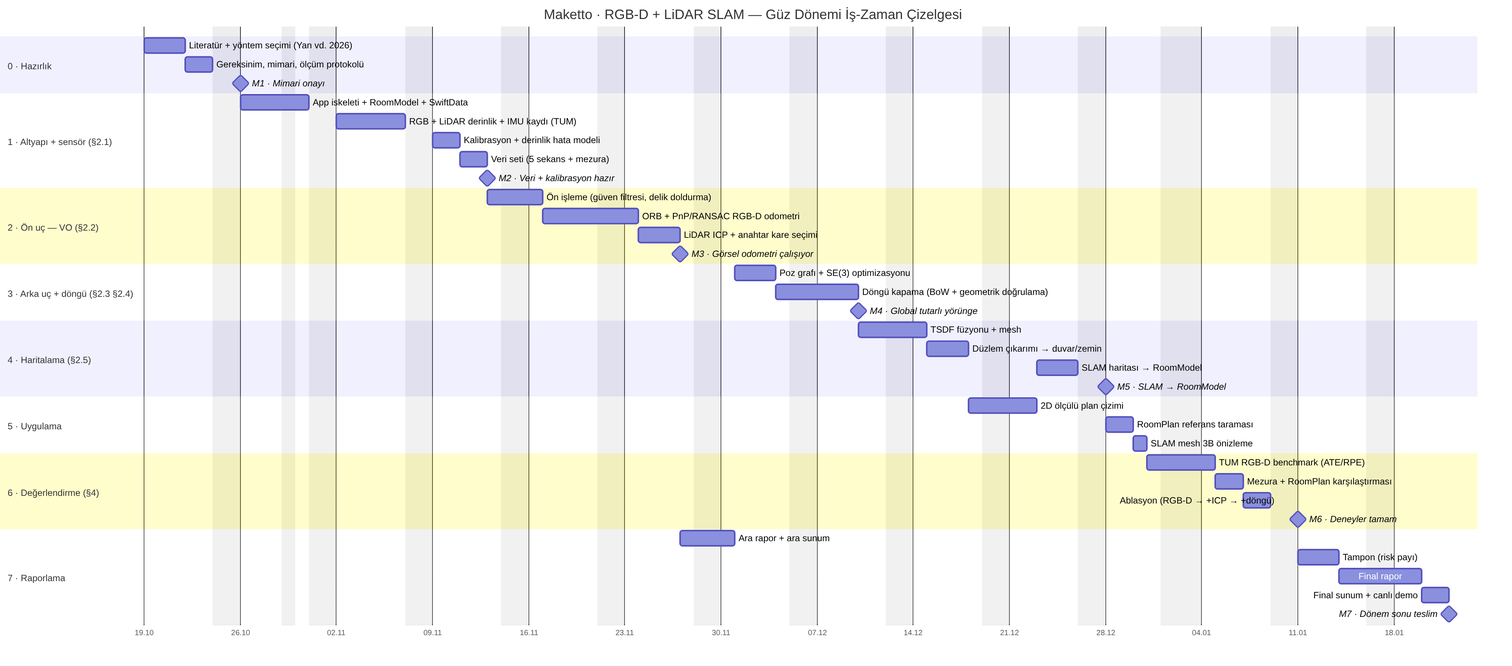
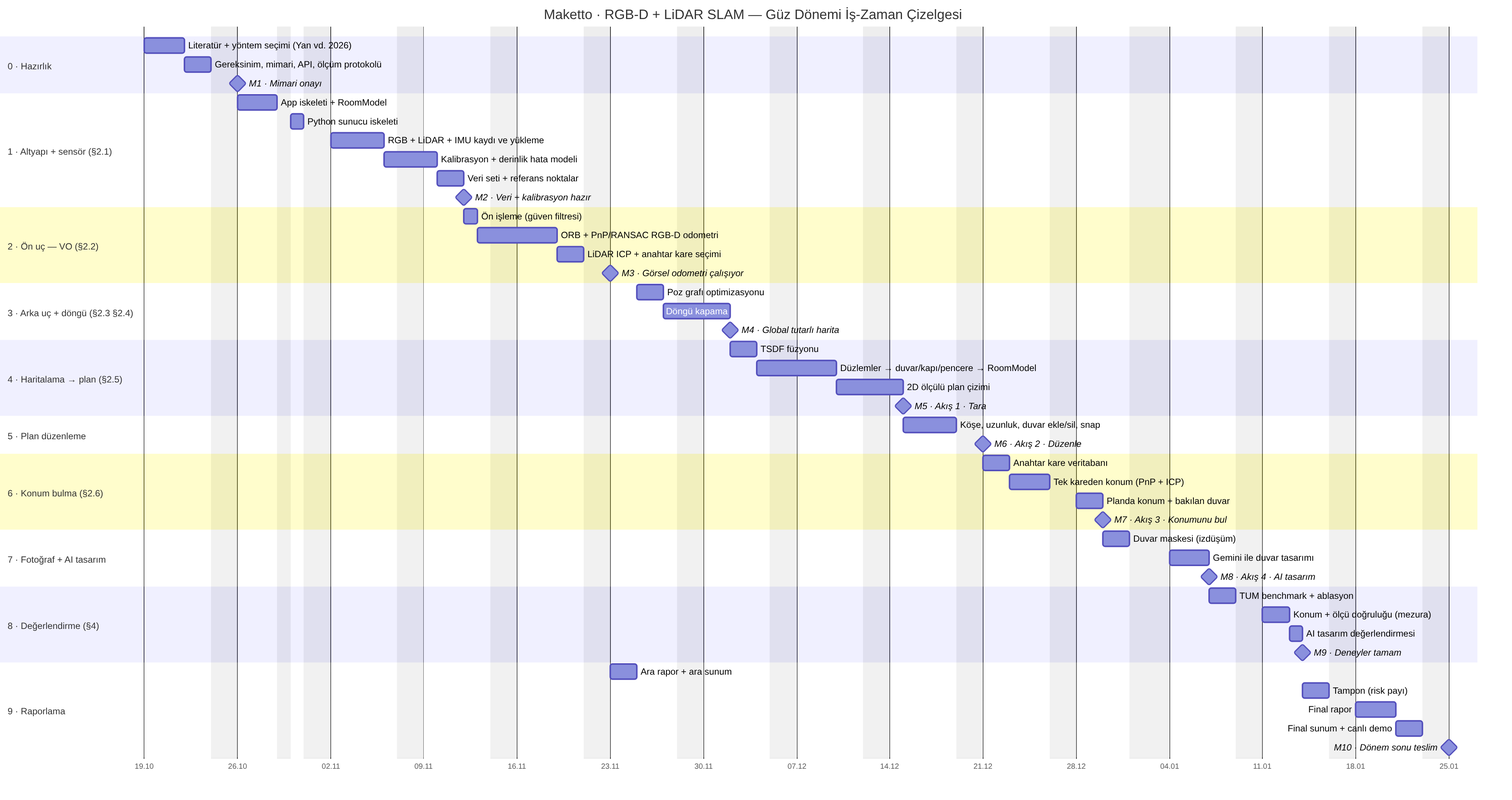
Re-plan the semester Gantt around the scan-to-AI-design flow
The target flow is now: scan the home, edit the plan, find your own
position in the map, photograph a wall, get an AI design for that
wall. GANTT.md adds a flow/architecture diagram (iPhone client +
Python server) and brings relocalization (Yan et al. 2026, sec. 2.6),
plan editing and a wall-masked Gemini design step into the 14-week
plan, with milestones per flow step. Still one person, 68/68 working
days with a 2-day buffer; docs/gantt.png is re-rendered.

Claude-Session: https://claude.ai/code/session_01Liqkw9b7w5xb7hxMGQjJBP

diff --git a/GANTT.md b/GANTT.md
@@ -2,28 +2,49 @@
 
 - **Proje isteri:** RGB-D ve LiDAR ile SLAM
 - **Referans makale:** Yan, Y.; Li, J.; Liu, Q.; Lv, S.; Wu, Q. *RGB-D SLAM: A Review of Methods and Performance Trade-Offs for Different Requirements.* Sensors 2026, 26(11), 3513. [doi:10.3390/s26113513](https://doi.org/10.3390/s26113513)
-- **Proje:** Maketto — LiDAR'lı iPhone ile evi tarayıp ölçülü 2D plan ve 3B model çıkaran ev tasarım uygulaması (bkz. `PLAN.md`).
+- **Proje:** Maketto — telefonla evi tara, planı düzenle, evin içinde konumunu haritada bul, bir duvarın fotoğrafını çek ve o duvar için AI tasarım al.
 
-Plan, projeye sıfırdan başlanıyormuş gibi ve **tek bir üniversite dönemine (14 hafta)** sığacak şekilde kuruldu. Uygulama iskeleti dahil her iş planlandı. SLAM, makaledeki RGB-D SLAM çerçevesinin modüllerine (§2.1–§2.5) bölündü. Her modül bir öncekinin çıktısını kullandığı için iş sırası da bu çerçeveyi izliyor.
+Plan, projeye sıfırdan başlanıyormuş gibi ve **tek bir üniversite dönemine (14 hafta)** sığacak şekilde kuruldu. SLAM, makaledeki RGB-D SLAM çerçevesinin modüllerine (§2.1–§2.6) bölündü. Her modül bir sonraki akış adımını mümkün kılıyor: harita **tara** adımını, relokalizasyon **konumunu bul** adımını, konum da AI tasarımın hangi duvara uygulanacağını belirliyor.
+
+## Hedef akış
+
+```mermaid
+flowchart LR
+    subgraph P[iPhone]
+        A["1 · Tara<br/>RGB + LiDAR + IMU"]
+        C["2 · Düzenle<br/>2D plan editörü"]
+        D["3 · Konumunu bul<br/>tek RGB-D kare"]
+        F["4 · Duvarın fotoğrafı<br/>→ AI tasarım"]
+    end
+    subgraph S[Bilgisayar · Python sunucu]
+        B["SLAM<br/>VO + poz grafı + döngü<br/>TSDF → duvarlar → RoomModel"]
+        E["Relokalizasyon<br/>anahtar kare DB + PnP + ICP<br/>→ poz + bakılan duvar"]
+        G["Duvar maskesi<br/>+ Gemini"]
+    end
+    A --> B --> C --> D --> E --> F --> G
+```
+
+Fotoğraf çekildiğinde sunucu önce o karenin konumunu haritada bulur, sonra bakılan duvarı fotoğrafa izdüşürüp bir maske çıkarır. AI yalnızca o duvarı, gerçek ölçüleriyle yeniden tasarlar.
 
 ## Varsayımlar
 - **Dönem:** 2026–27 güz dönemi, 19 Ekim 2026 (Pzt) → 22 Ocak 2027 (Cum), 14 hafta (H1–H14). Final sınav haftaları bu sürenin dışında.
-- **Kapasite:** 68 iş günü (hafta sonları, 29 Ekim ve 1 Ocak hariç). Plan 67 iş günü tutuyor, 3 günlük tampon dahil.
-- **Ekip:** Tek kişi, işler sırayla yapılıyor. Bir iş gecikirse teslim de kayar; bunu tampon karşılıyor.
-- **Donanım ve yazılım:** iPhone 14 Pro Max (RGB kamera + LiDAR dToF derinliği + IMU) veriyi toplar ve sonucu gösterir. SLAM hattı bilgisayarda Python + OpenCV + Open3D ile çevrimdışı çalışır.
+- **Kapasite:** 68 iş günü (hafta sonları, 29 Ekim ve 1 Ocak hariç). Plan 68 iş gününün tamamını kullanıyor, 2 günlük tampon dahil. Sıkı bir plan.
+- **Ekip:** Tek kişi, işler sırayla yapılıyor. Bir iş gecikirse teslim de kayar.
+- **Mimari:** iPhone 14 Pro Max (RGB kamera + LiDAR dToF derinliği + IMU) veriyi toplar, planı düzenletir ve sonucu gösterir. SLAM, relokalizasyon ve AI çağrısı aynı ağdaki bir bilgisayarda Python sunucuda (FastAPI + OpenCV + Open3D) çalışır. AI tasarım için `PLAN.md`'deki Gemini görsel düzenleme API'si kullanılır.
 - **Tarih kaydırma:** Yalnızca `lit` satırındaki başlangıç tarihini değiştirmek yeter, diğer her şey `after` bağımlılıklarıyla kayar. Bahar dönemine taşınırsa `excludes` satırına o dönemin tatilleri (Ramazan Bayramı 9–11 Mart, 23 Nisan, Kurban Bayramı 17–19 Mayıs) eklenmeli.
 
 ## Kapsam kararları
-Makale (§5), zor koşullarda RGB-D SLAM'in gerçek zamandan çok doğruluk ve sağlamlığı öne aldığını söylüyor. Bir dönemde hem SLAM hattını hem mobil gerçek zaman optimizasyonunu yetiştirmek gerçekçi olmadığı için hat önce bilgisayarda çevrimdışı doğrulanıyor.
+Makale (§5), zor koşullarda RGB-D SLAM'in gerçek zamandan çok doğruluk ve sağlamlığı öne aldığını söylüyor. Akıştaki hiçbir adım sürekli gerçek zaman gerektirmiyor: tarama bir kez işleniyor, konum her fotoğrafta tek kareden bulunuyor. Bu yüzden ağır hesap sunucuya alındı.
 
 | Kapsam dışı | Neden |
 |---|---|
-| Cihazda gerçek zamanlı SLAM (Metal) | Bir döneme sığmıyor; hat önce çevrimdışı doğrulanıyor |
+| Cihazda gerçek zamanlı SLAM (Metal) | Bir döneme sığmıyor; akış için gerekmiyor |
+| Sürekli canlı konum takibi | Konum, her sorguda (buton ya da fotoğraf) tek kareden bulunuyor |
 | IMU füzyonu (§3.4) | İster RGB-D + LiDAR; IMU ek sensör. Veri zaten kaydediliyor (`cap`), sonra eklenebilir |
-| Relokalizasyon (§2.6) | Çevrimdışı işlemede kritik değil; takibi kopan sekans yeniden çekilir |
-| Dinamik nesne filtreleme | Sekanslar boş odada çekilecek |
+| Dinamik nesne filtreleme | Tarama boş odada yapılacak |
 | Nöral örtük haritalama (NeRF, 3DGS) | Makale (§4) kısıtlı platformlarda önermiyor |
-| Plan düzeltme, eşya yerleştirme, katalog, versiyonlama, Gemini render, çok odalı tarama (`PLAN.md` F3–F8) | SLAM isteriyle ilgili değil; sonraki dönem |
+| Eşya yerleştirme, katalog, native 3B, çok odalı tarama (`PLAN.md` F4–F6) | Akışın parçası değil; sonraki dönem |
+| RoomPlan ile karşılaştırma | Referans ölçüm mezurayla yapılıyor; zaman kalırsa eklenir |
 
 ## Gantt şeması
 GitHub bu bloğu doğrudan çizer (dikey kırmızı çizgi bugünü gösterir). Rapor ve sunum için hazır görsel: [`docs/gantt.png`](docs/gantt.png).
@@ -40,50 +61,61 @@ gantt
 
     section 0 · Hazırlık
     Literatür + yöntem seçimi (Yan vd. 2026)   :lit, 2026-10-19, 3d
-    Gereksinim, mimari, ölçüm protokolü        :req, after lit, 2d
+    Gereksinim, mimari, API, ölçüm protokolü   :req, after lit, 2d
     M1 · Mimari onayı                          :milestone, m1, after req, 0d
 
     section 1 · Altyapı + sensör (§2.1)
-    App iskeleti + RoomModel + SwiftData       :f0, after m1, 4d
-    RGB + LiDAR derinlik + IMU kaydı (TUM)     :cap, after f0, 5d
+    App iskeleti + RoomModel                   :f0, after m1, 3d
+    Python sunucu iskeleti                     :srv, after f0, 1d
+    RGB + LiDAR + IMU kaydı ve yükleme         :cap, after srv, 4d
     Kalibrasyon + derinlik hata modeli         :calib, after cap, 2d
-    Veri seti (5 sekans + mezura)              :data, after calib, 2d
+    Veri seti + referans noktalar              :data, after calib, 2d
     M2 · Veri + kalibrasyon hazır              :milestone, m2, after data, 0d
 
     section 2 · Ön uç — VO (§2.2)
-    Ön işleme (güven filtresi, delik doldurma) :pre, after m2, 2d
-    ORB + PnP/RANSAC RGB-D odometri            :vo, after pre, 5d
-    LiDAR ICP + anahtar kare seçimi            :icp, after vo, 3d
+    Ön işleme (güven filtresi)                 :pre, after m2, 1d
+    ORB + PnP/RANSAC RGB-D odometri            :vo, after pre, 4d
+    LiDAR ICP + anahtar kare seçimi            :icp, after vo, 2d
     M3 · Görsel odometri çalışıyor             :milestone, m3, after icp, 0d
 
     section 3 · Arka uç + döngü (§2.3 §2.4)
-    Poz grafı + SE(3) optimizasyonu            :pg, after int, 3d
-    Döngü kapama (BoW + geometrik doğrulama)   :lc, after pg, 4d
-    M4 · Global tutarlı yörünge                :milestone, m4, after lc, 0d
+    Poz grafı optimizasyonu                    :pg, after int, 2d
+    Döngü kapama                               :lc, after pg, 3d
+    M4 · Global tutarlı harita                 :milestone, m4, after lc, 0d
 
-    section 4 · Haritalama (§2.5)
-    TSDF füzyonu + mesh                        :tsdf, after m4, 3d
-    Düzlem çıkarımı → duvar/zemin              :plane, after tsdf, 3d
-    SLAM haritası → RoomModel                  :rm, after f2, 3d
-    M5 · SLAM → RoomModel                      :milestone, m5, after rm, 0d
+    section 4 · Haritalama → plan (§2.5)
+    TSDF füzyonu                               :tsdf, after m4, 2d
+    Düzlemler → duvar/kapı/pencere → RoomModel :walls, after tsdf, 4d
+    2D ölçülü plan çizimi                      :f2, after walls, 3d
+    M5 · Akış 1 · Tara                         :milestone, m5, after f2, 0d
 
-    section 5 · Uygulama
-    2D ölçülü plan çizimi                      :f2, after plane, 3d
-    RoomPlan referans taraması                 :f1, after m5, 2d
-    SLAM mesh 3B önizleme                      :view, after f1, 1d
+    section 5 · Plan düzenleme
+    Köşe, uzunluk, duvar ekle/sil, snap        :f3, after m5, 4d
+    M6 · Akış 2 · Düzenle                      :milestone, m6, after f3, 0d
 
-    section 6 · Değerlendirme (§4)
-    TUM RGB-D benchmark (ATE/RPE)              :bench, after view, 2d
-    Mezura + RoomPlan karşılaştırması          :own, after bench, 2d
-    Ablasyon (RGB-D → +ICP → +döngü)           :abl, after own, 2d
-    M6 · Deneyler tamam                        :milestone, m6, after abl, 0d
+    section 6 · Konum bulma (§2.6)
+    Anahtar kare veritabanı                    :kfdb, after m6, 2d
+    Tek kareden konum (PnP + ICP)              :loc, after kfdb, 3d
+    Planda konum + bakılan duvar               :here, after loc, 2d
+    M7 · Akış 3 · Konumunu bul                 :milestone, m7, after here, 0d
 
-    section 7 · Raporlama
+    section 7 · Fotoğraf + AI tasarım
+    Duvar maskesi (izdüşüm)                    :mask, after m7, 2d
+    Gemini ile duvar tasarımı                  :ai, after mask, 3d
+    M8 · Akış 4 · AI tasarım                   :milestone, m8, after ai, 0d
+
+    section 8 · Değerlendirme (§4)
+    TUM benchmark + ablasyon                   :bench, after m8, 2d
+    Konum + ölçü doğruluğu (mezura)            :reval, after bench, 2d
+    AI tasarım değerlendirmesi                 :aieval, after reval, 1d
+    M9 · Deneyler tamam                        :milestone, m9, after aieval, 0d
+
+    section 9 · Raporlama
     Ara rapor + ara sunum                      :int, after m3, 2d
-    Tampon (risk payı)                         :buf, after m6, 3d
-    Final rapor                                :final, after buf, 4d
+    Tampon (risk payı)                         :buf, after m9, 2d
+    Final rapor                                :final, after buf, 3d
     Final sunum + canlı demo                   :demo, after final, 2d
-    M7 · Dönem sonu teslim                     :milestone, m7, after demo, 0d
+    M10 · Dönem sonu teslim                    :milestone, m10, after demo, 0d
 ```
 
 > Mermaid, hafta sonuna denk gelen bitişleri çubuğa dahil eder ve kilometre taşını bir sonraki iş gününe çizer. Aşağıdaki tablolardaki tarihler gerçek iş günleridir.
@@ -93,12 +125,15 @@ gantt
 | # | Kilometre taşı | Hafta | Tarih | Kanıt |
 |---|---|---|---|---|
 | M1 | Mimari onayı | H1 | 23 Ekim 2026 | Mimari doküman + yöntem karşılaştırması |
-| M2 | Veri + kalibrasyon hazır | H4 | 12 Kasım 2026 | TUM formatında 5 sekans + kalibrasyon raporu |
-| M3 | Görsel odometri çalışıyor | H6 | 26 Kasım 2026 | TUM fr1/desk ATE RMSE < 5 cm; ardından ara rapor (30 Kasım) |
-| M4 | Global tutarlı yörünge | H8 | 9 Aralık 2026 | Ev içi döngüde kapanış hatası < 5 cm |
-| M5 | SLAM → RoomModel | H10 | 25 Aralık 2026 | SLAM'den çıkan plan uygulamada çiziliyor, duvarlar mezurayla < 5 cm |
-| M6 | Deneyler tamam | H12 | 8 Ocak 2027 | Benchmark, mezura/RoomPlan ve ablasyon tabloları |
-| M7 | Dönem sonu teslim | H14 | 21 Ocak 2027 | Final rapor + canlı demo |
+| M2 | Veri + kalibrasyon hazır | H4 | 11 Kasım 2026 | TUM formatında 5 sekans, 10 referans nokta, kalibrasyon raporu |
+| M3 | Görsel odometri çalışıyor | H5 | 20 Kasım 2026 | TUM fr1/desk ATE RMSE < 5 cm; ardından ara rapor (24 Kasım) |
+| M4 | Global tutarlı harita | H7 | 1 Aralık 2026 | Ev içi döngüde kapanış hatası < 5 cm |
+| M5 | Akış 1 · Tara | H9 | 14 Aralık 2026 | Taramadan çıkan plan uygulamada, duvarlar mezurayla < 5 cm |
+| M6 | Akış 2 · Düzenle | H9 | 18 Aralık 2026 | Düzenlenen plan kaydediliyor, harita koordinatları korunuyor |
+| M7 | Akış 3 · Konumunu bul | H11 | 29 Aralık 2026 | Planda "buradasınız" + bakılan duvar |
+| M8 | Akış 4 · AI tasarım | H12 | 6 Ocak 2027 | Duvar fotoğrafından maskeli AI tasarım |
+| M9 | Deneyler tamam | H13 | 13 Ocak 2027 | Benchmark, konum doğruluğu ve AI değerlendirme tabloları |
+| M10 | Dönem sonu teslim | H14 | 22 Ocak 2027 | Final rapor + canlı demo |
 
 ## Makale → iş paketi eşlemesi
 
@@ -106,14 +141,14 @@ gantt
 |---|---|---|---|
 | §2.1 | RGB-D kamera, kalibrasyon | 1 · Altyapı + sensör | LiDAR (dToF) derinliği + RGB; hizalama doğrulaması, derinlik hata modeli |
 | §2.2 | Ön uç (görsel odometri) | 2 · Ön uç | ORB + PnP/RANSAC; az dokulu duvarda LiDAR ICP |
-| §2.3 | Arka uç | 3 · Arka uç + döngü | Filtre yerine graf optimizasyonu (büyük sahnede daha doğru) |
+| §2.3 | Arka uç | 3 · Arka uç + döngü | Filtre yerine poz grafı optimizasyonu |
 | §2.4 | Döngü kapama | 3 · Arka uç + döngü | BoW / global tanımlayıcı + geometrik doğrulama |
-| §2.5 | Haritalama | 4 · Haritalama | TSDF → mesh; düzlemlerden metrik `RoomModel` |
-| §2.6 | Relokalizasyon | Kapsam dışı | — |
-| §3.4 | Çoklu sensör füzyonu | 2 · Ön uç | RGB öznitelikleri ile LiDAR geometrisi birlikte kullanılıyor; IMU kapsam dışı |
-| §4, Tablo 3–4 | Değerlendirme, ödünleşimler | 6 · Değerlendirme | ATE/RPE RMSE (TUM RGB-D), mezura, ablasyon |
+| §2.5 | Haritalama | 4 · Haritalama → plan | TSDF → düzlemler → metrik + semantik `RoomModel` (duvar, kapı, pencere) |
+| §2.6 | Relokalizasyon | 6 · Konum bulma | Anahtar kare DB + PnP + ICP; "konumunu bul" adımının kendisi |
+| §3.4 | Çoklu sensör füzyonu | 2 · Ön uç | RGB öznitelikleri ile LiDAR geometrisi birlikte; IMU kapsam dışı |
+| §4, Tablo 3–4 | Değerlendirme, ödünleşimler | 8 · Değerlendirme | ATE/RPE (TUM RGB-D), ablasyon, konum hatası, maske IoU |
 
-**Yöntem seçiminin gerekçesi (makale §4):** Makale iç mekân ve statik sahne için öznitelik tabanlı yöntemleri (ORB-SLAM2/3 çizgisi), az dokulu sahneler için doğrudan/geometrik yöntemleri, büyük ölçek için LiDAR ya da IMU entegrasyonunu öneriyor. Bu yüzden ORB + LiDAR ICP + graf optimizasyonu hattı seçildi.
+**Yöntem seçiminin gerekçesi (makale §4):** Makale iç mekân ve statik sahne için öznitelik tabanlı yöntemleri (ORB-SLAM2/3 çizgisi), az dokulu sahneler için doğrudan/geometrik yöntemleri, büyük ölçek için LiDAR ya da IMU entegrasyonunu öneriyor. ORB tanımlayıcıları hem döngü kapamada hem relokalizasyonda yeniden kullanıldığı için ORB + LiDAR ICP + poz grafı hattı seçildi.
 
 ## İş paketleri
 Süre iş günü (g) cinsinden; H, dönem haftasıdır.
@@ -123,75 +158,91 @@ Süre iş günü (g) cinsinden; H, dönem haftasıdır.
 | ID | İş paketi | Hafta | Tarih | Süre | Başarı ölçütü |
 |---|---|---|---|---|---|
 | `lit` | Literatür + yöntem seçimi (Yan vd. 2026) | H1 | 19 Eki – 21 Eki | 3 g | Makaledeki 5 paradigmanın (öznitelik, doğrudan, nöral örtük, hibrit, çoklu sensör) karşılaştırması + seçilen hattın gerekçesi |
-| `req` | Gereksinim, mimari, ölçüm protokolü | H1 | 22 Eki – 23 Eki | 2 g | Mimari (iPhone kaydı → masaüstü SLAM hattı → RoomModel JSON → uygulama) ve metrikler (ATE/RPE RMSE, mezura farkı) yazılı |
+| `req` | Gereksinim, mimari, API, ölçüm protokolü | H1 | 22 Eki – 23 Eki | 2 g | Mimari (iPhone istemci + Python sunucu: SLAM, relokalizasyon, AI), API sözleşmesi ve metrikler (ATE/RPE, konum hatası, maske IoU) yazılı |
 
 ### 1 · Altyapı + sensör (§2.1)
 
 | ID | İş paketi | Hafta | Tarih | Süre | Başarı ölçütü |
 |---|---|---|---|---|---|
-| `f0` | App iskeleti + RoomModel + SwiftData | H2 | 26 Eki – 30 Eki | 4 g | Proje XcodeGen → Xcode → iPhone’da çalışıyor; Ev → Oda modeli, SwiftData, mock RoomModel listeleniyor |
-| `cap` | RGB + LiDAR derinlik + IMU kaydı (TUM) | H3 | 02 Kas – 06 Kas | 5 g | RGB + 256×192 LiDAR derinlik (60 Hz) + güven haritası + IMU + ARKit pozu ortak zaman damgasıyla TUM formatında dışa aktarılıyor |
-| `calib` | Kalibrasyon + derinlik hata modeli | H4 | 09 Kas – 10 Kas | 2 g | İç parametreler doğrulandı, RGB↔derinlik hizalama hatası < 1 px, mesafeye bağlı derinlik hata modeli (0,3–5 m) |
-| `data` | Veri seti (5 sekans + mezura) | H4 | 11 Kas – 12 Kas | 2 g | ≥ 5 sekans (oda, koridor, ev içi döngü, az dokulu duvar, düşük ışık) + her biri için mezura ölçümleri |
+| `f0` | App iskeleti + RoomModel | H2 | 26 Eki – 28 Eki | 3 g | Proje XcodeGen → Xcode → iPhone’da çalışıyor; RoomModel + SwiftData, mock oda listeleniyor |
+| `srv` | Python sunucu iskeleti | H2 | 30 Eki | 1 g | FastAPI sunucusu; iPhone aynı ağdaki bilgisayara dosya yükleyip yanıt alıyor |
+| `cap` | RGB + LiDAR + IMU kaydı ve yükleme | H3 | 02 Kas – 05 Kas | 4 g | RGB + 256×192 LiDAR derinlik + güven haritası + IMU + ARKit pozu ortak zaman damgasıyla TUM formatında kaydedilip sunucuya yükleniyor |
+| `calib` | Kalibrasyon + derinlik hata modeli | H3–H4 | 06 Kas – 09 Kas | 2 g | İç parametreler doğrulandı, RGB↔derinlik hizalama hatası < 1 px, mesafeye bağlı derinlik hata modeli (0,3–5 m) |
+| `data` | Veri seti + referans noktalar | H4 | 10 Kas – 11 Kas | 2 g | ≥ 5 sekans (oda, koridor, ev içi döngü, az dokulu duvar, düşük ışık), duvar ölçüleri (mezura) ve zemine işaretli 10 referans nokta |
 
 ### 2 · Ön uç — VO (§2.2)
 
 | ID | İş paketi | Hafta | Tarih | Süre | Başarı ölçütü |
 |---|---|---|---|---|---|
-| `pre` | Ön işleme (güven filtresi, delik doldurma) | H4–H5 | 13 Kas – 16 Kas | 2 g | Düşük güvenli ve uzak derinlik maskesi, delik doldurma; öncesi/sonrası karşılaştırma |
-| `vo` | ORB + PnP/RANSAC RGB-D odometri | H5–H6 | 17 Kas – 23 Kas | 5 g | ORB çıkarım/eşleme + derinlikle PnP/RANSAC; TUM fr1/desk ATE RMSE < 5 cm |
-| `icp` | LiDAR ICP + anahtar kare seçimi | H6 | 24 Kas – 26 Kas | 3 g | Point-to-plane ICP ile az dokulu sekansta takip sürüyor; anahtar kare politikası belirlendi |
+| `pre` | Ön işleme (güven filtresi) | H4 | 12 Kas | 1 g | Düşük güvenli ve uzak derinlik maskesi, delik doldurma |
+| `vo` | ORB + PnP/RANSAC RGB-D odometri | H4–H5 | 13 Kas – 18 Kas | 4 g | ORB çıkarım/eşleme + derinlikle PnP/RANSAC; TUM fr1/desk ATE RMSE < 5 cm |
+| `icp` | LiDAR ICP + anahtar kare seçimi | H5 | 19 Kas – 20 Kas | 2 g | Point-to-plane ICP (Open3D) ile az dokulu sekansta takip sürüyor; anahtar kare seçimi |
 
 ### 3 · Arka uç + döngü (§2.3 §2.4)
 
 | ID | İş paketi | Hafta | Tarih | Süre | Başarı ölçütü |
 |---|---|---|---|---|---|
-| `pg` | Poz grafı + SE(3) optimizasyonu | H7 | 01 Ara – 03 Ara | 3 g | Düğüm = anahtar kare pozu, kenar = VO/ICP göreli pozu; LM optimizasyonu (Open3D / g2o) yalnız VO’ya göre ATE’yi düşürüyor |
-| `lc` | Döngü kapama (BoW + geometrik doğrulama) | H7–H8 | 04 Ara – 09 Ara | 4 g | BoW ya da global tanımlayıcıyla döngü adayı + RANSAC/ICP doğrulama; ev içi döngüde kapanış hatası < 5 cm, yanlış döngü = 0 |
+| `pg` | Poz grafı optimizasyonu | H6 | 25 Kas – 26 Kas | 2 g | Anahtar kare düğümleri + VO/ICP kenarları, Open3D/g2o ile optimizasyon; ATE yalnız VO’ya göre düşüyor |
+| `lc` | Döngü kapama | H6–H7 | 27 Kas – 01 Ara | 3 g | BoW ya da global tanımlayıcıyla aday + RANSAC/ICP doğrulama; ev içi döngüde kapanış hatası < 5 cm, yanlış döngü = 0 |
 
-### 4 · Haritalama (§2.5)
-
-| ID | İş paketi | Hafta | Tarih | Süre | Başarı ölçütü |
-|---|---|---|---|---|---|
-| `tsdf` | TSDF füzyonu + mesh | H8–H9 | 10 Ara – 14 Ara | 3 g | TSDF füzyonu (2 cm voksel) → mesh (PLY/USDZ) |
-| `plane` | Düzlem çıkarımı → duvar/zemin | H9 | 15 Ara – 17 Ara | 3 g | RANSAC düzlem çıkarımı + Manhattan hizalama → duvar ve zemin düzlemleri |
-| `rm` | SLAM haritası → RoomModel | H10 | 23 Ara – 25 Ara | 3 g | SLAM çıktısı RoomModel JSON olarak uygulamaya aktarılıyor ve çiziliyor; duvar uzunlukları mezurayla < 5 cm |
-
-### 5 · Uygulama
+### 4 · Haritalama → plan (§2.5)
 
 | ID | İş paketi | Hafta | Tarih | Süre | Başarı ölçütü |
 |---|---|---|---|---|---|
-| `f2` | 2D ölçülü plan çizimi | H9–H10 | 18 Ara – 22 Ara | 3 g | RoomModel JSON → doğru oranlı, ölçü etiketli 2D plan |
-| `f1` | RoomPlan referans taraması | H11 | 28 Ara – 29 Ara | 2 g | Aynı odalar RoomPlan ile taranıp RoomModel’e çevriliyor (karşılaştırma referansı) |
-| `view` | SLAM mesh 3B önizleme | H11 | 30 Ara | 1 g | SLAM mesh’i uygulamada 3B görüntüleniyor (QuickLook / SceneKit) |
+| `tsdf` | TSDF füzyonu | H7 | 02 Ara – 03 Ara | 2 g | TSDF füzyonu (2 cm voksel) → yoğun nokta bulutu / mesh |
+| `walls` | Düzlemler → duvar/kapı/pencere → RoomModel | H7–H8 | 04 Ara – 09 Ara | 4 g | RANSAC düzlem + Manhattan hizalama → duvar ve zemin, düzlemdeki boşluklardan kapı/pencere → RoomModel JSON; duvarlar mezurayla < 5 cm |
+| `f2` | 2D ölçülü plan çizimi | H8–H9 | 10 Ara – 14 Ara | 3 g | RoomModel → doğru oranlı, ölçü etiketli 2D plan uygulamada çiziliyor |
 
-### 6 · Değerlendirme (§4)
-
-| ID | İş paketi | Hafta | Tarih | Süre | Başarı ölçütü |
-|---|---|---|---|---|---|
-| `bench` | TUM RGB-D benchmark (ATE/RPE) | H11–H12 | 31 Ara – 04 Oca | 2 g | TUM fr1/desk, fr2/xyz, fr3/long_office için ATE/RPE RMSE; ORB-SLAM3 / RTAB-Map’in yayımlanmış sonuçlarıyla tablo |
-| `own` | Mezura + RoomPlan karşılaştırması | H12 | 05 Oca – 06 Oca | 2 g | Kendi sekanslarda duvar ölçüleri: mezuraya ve RoomPlan’e göre fark tablosu |
-| `abl` | Ablasyon (RGB-D → +ICP → +döngü) | H12 | 07 Oca – 08 Oca | 2 g | Yalnız RGB-D → +LiDAR ICP → +döngü kapama: her adımın ATE’ye katkısı |
-
-### 7 · Raporlama
+### 5 · Plan düzenleme
 
 | ID | İş paketi | Hafta | Tarih | Süre | Başarı ölçütü |
 |---|---|---|---|---|---|
-| `int` | Ara rapor + ara sunum | H6–H7 | 27 Kas – 30 Kas | 2 g | Literatür, mimari, sensör katmanı ve VO sonuçlarını içeren ara rapor + ara sunum |
-| `buf` | Tampon (risk payı) | H13 | 11 Oca – 13 Oca | 3 g | Kayan işler kapandı; bu noktadan sonra yeni özellik yok |
-| `final` | Final rapor | H13–H14 | 14 Oca – 19 Oca | 4 g | Yöntem, deneyler ve tartışma (makale §4’teki ödünleşimler üzerinden) |
-| `demo` | Final sunum + canlı demo | H14 | 20 Oca – 21 Oca | 2 g | Canlı akış: oda tara → SLAM → 2D plan → 3B |
+| `f3` | Köşe, uzunluk, duvar ekle/sil, snap | H9 | 15 Ara – 18 Ara | 4 g | Köşe sürükle, uzunluk yaz, duvar ekle/sil, snap; ölçüler tutarlı, harita koordinatları korunuyor |
+
+### 6 · Konum bulma (§2.6)
+
+| ID | İş paketi | Hafta | Tarih | Süre | Başarı ölçütü |
+|---|---|---|---|---|---|
+| `kfdb` | Anahtar kare veritabanı | H10 | 21 Ara – 22 Ara | 2 g | Anahtar karelerin ORB + global tanımlayıcıları ve optimize pozları haritayla birlikte kaydediliyor |
+| `loc` | Tek kareden konum (PnP + ICP) | H10 | 23 Ara – 25 Ara | 3 g | Tek RGB-D kareden poz: aday anahtar kare → PnP/RANSAC → ICP iyileştirme; sorgu < 2 s |
+| `here` | Planda konum + bakılan duvar | H11 | 28 Ara – 29 Ara | 2 g | Planda konum + yön oku; kameranın baktığı duvar ışın izlemeyle bulunuyor |
+
+### 7 · Fotoğraf + AI tasarım
+
+| ID | İş paketi | Hafta | Tarih | Süre | Başarı ölçütü |
+|---|---|---|---|---|---|
+| `mask` | Duvar maskesi (izdüşüm) | H11 | 30 Ara – 31 Ara | 2 g | Bakılan duvarın poligonu poz + iç parametrelerle fotoğrafa izdüşürülüyor → duvar maskesi |
+| `ai` | Gemini ile duvar tasarımı | H12 | 04 Oca – 06 Oca | 3 g | Fotoğraf + duvar maskesi + ölçüler + stil istemi → Gemini görsel düzenleme; sonuç uygulamada gösterilip odaya kaydediliyor |
+
+### 8 · Değerlendirme (§4)
+
+| ID | İş paketi | Hafta | Tarih | Süre | Başarı ölçütü |
+|---|---|---|---|---|---|
+| `bench` | TUM benchmark + ablasyon | H12 | 07 Oca – 08 Oca | 2 g | TUM fr1/desk, fr2/xyz, fr3/long_office için ATE/RPE + ablasyon (yalnız RGB-D → +LiDAR ICP → +döngü kapama) |
+| `reval` | Konum + ölçü doğruluğu (mezura) | H13 | 11 Oca – 12 Oca | 2 g | 10 referans noktada konum başarısı (hedef ≥ %90), konum hatası (< 10 cm), yön hatası (< 5°), maske IoU (≥ 0,8) + duvar ölçüleri tablosu |
+| `aieval` | AI tasarım değerlendirmesi | H13 | 13 Oca | 1 g | 10 tasarımda yapı sadakati (kapı/pencere yerinde mi, duvar dışı bozulmuş mu) + 5 kişilik kullanıcı puanlaması |
+
+### 9 · Raporlama
+
+| ID | İş paketi | Hafta | Tarih | Süre | Başarı ölçütü |
+|---|---|---|---|---|---|
+| `int` | Ara rapor + ara sunum | H6 | 23 Kas – 24 Kas | 2 g | Literatür, mimari, sensör katmanı ve VO sonuçlarıyla ara rapor + ara sunum |
+| `buf` | Tampon (risk payı) | H13 | 14 Oca – 15 Oca | 2 g | Kayan işler kapandı; bu noktadan sonra yeni özellik yok |
+| `final` | Final rapor | H14 | 18 Oca – 20 Oca | 3 g | Yöntem, deneyler ve tartışma (makale §4’teki ödünleşimler üzerinden) |
+| `demo` | Final sunum + canlı demo | H14 | 21 Oca – 22 Oca | 2 g | Canlı akış: evi tara → planı düzenle → konumunu bul → duvarın fotoğrafı → AI tasarım |
 
 ## Riskler
 
 | Risk | Etki | Önlem |
 |---|---|---|
-| Tek kişilik sıralı plan | Bir iş kayarsa teslim kayar | 3 g tampon (`buf`). Kayma tamponu aşarsa önce `view`, sonra `f1` çıkarılır (karşılaştırma yalnız mezurayla yapılır) |
-| Cam, ayna ve parlak yüzeylerde LiDAR hatası (makale §4) | Hayalet duvar, ölçü hatası | Güven filtresi (`pre`), düzlem + Manhattan hizalama (`plane`) |
-| Az dokulu beyaz duvarlar | ORB takibi kopar | LiDAR ICP (`icp`) |
+| Tek kişilik, kapasitenin tamamını kullanan plan | Bir iş kayarsa teslim kayar | 2 g tampon (`buf`). Kayma tamponu aşarsa önce kullanıcı puanlaması (`aieval`), sonra ablasyon kısaltılır |
+| Relokalizasyon başarısız (az doku, ışık farkı) | Konum bulunamaz, yanlış duvar seçilir | LiDAR ICP iyileştirme, birden fazla aday anahtar kare, kullanıcıya "biraz dön" ipucu |
+| AI çıktısı yapıyı bozar (pencereyi siler, perspektifi değiştirir) | Tasarım odaya uymaz | Duvar maskesi + istemde ölçüler; yapı sadakati ölçülüyor (`aieval`) |
+| Ev fotoğrafları dış servise gidiyor | Gizlilik | Kullanıcı onayı; yalnızca seçilen fotoğraf gönderiliyor |
+| Cam, ayna ve parlak yüzeylerde LiDAR hatası (makale §4) | Hayalet duvar, ölçü hatası | Güven filtresi (`pre`), düzlem + Manhattan hizalama (`walls`) |
 | Dar görüş alanı, ~5 m LiDAR menzili | Geniş alanda sürüklenme | Sık anahtar kare, döngü kapama (`lc`) |
 | Ara sınav haftası ve diğer dersler | Haftalık kapasite düşer | Ara sınav haftası belli olunca o haftaya hafif işler (veri toplama, rapor) alınır |
 
 ---
-PNG'yi yeniden üretmek için Mermaid bloğunu <https://mermaid.live> adresine yapıştırıp dışa aktarın ya da:
-`npx -p @mermaid-js/mermaid-cli mmdc -i GANTT.md -o docs/gantt.png -w 2000 -s 2 -b white && mv docs/gantt-1.png docs/gantt.png`
+PNG'yi yeniden üretmek için Gantt bloğunu <https://mermaid.live> adresine yapıştırıp dışa aktarın ya da:
+`npx -p @mermaid-js/mermaid-cli mmdc -i GANTT.md -o docs/gantt.png -w 2000 -s 2 -b white` (akış şeması `docs/gantt-1.png`, Gantt şeması `docs/gantt-2.png` olarak yazılır; ikincisini `docs/gantt.png` adıyla kaydedin)
